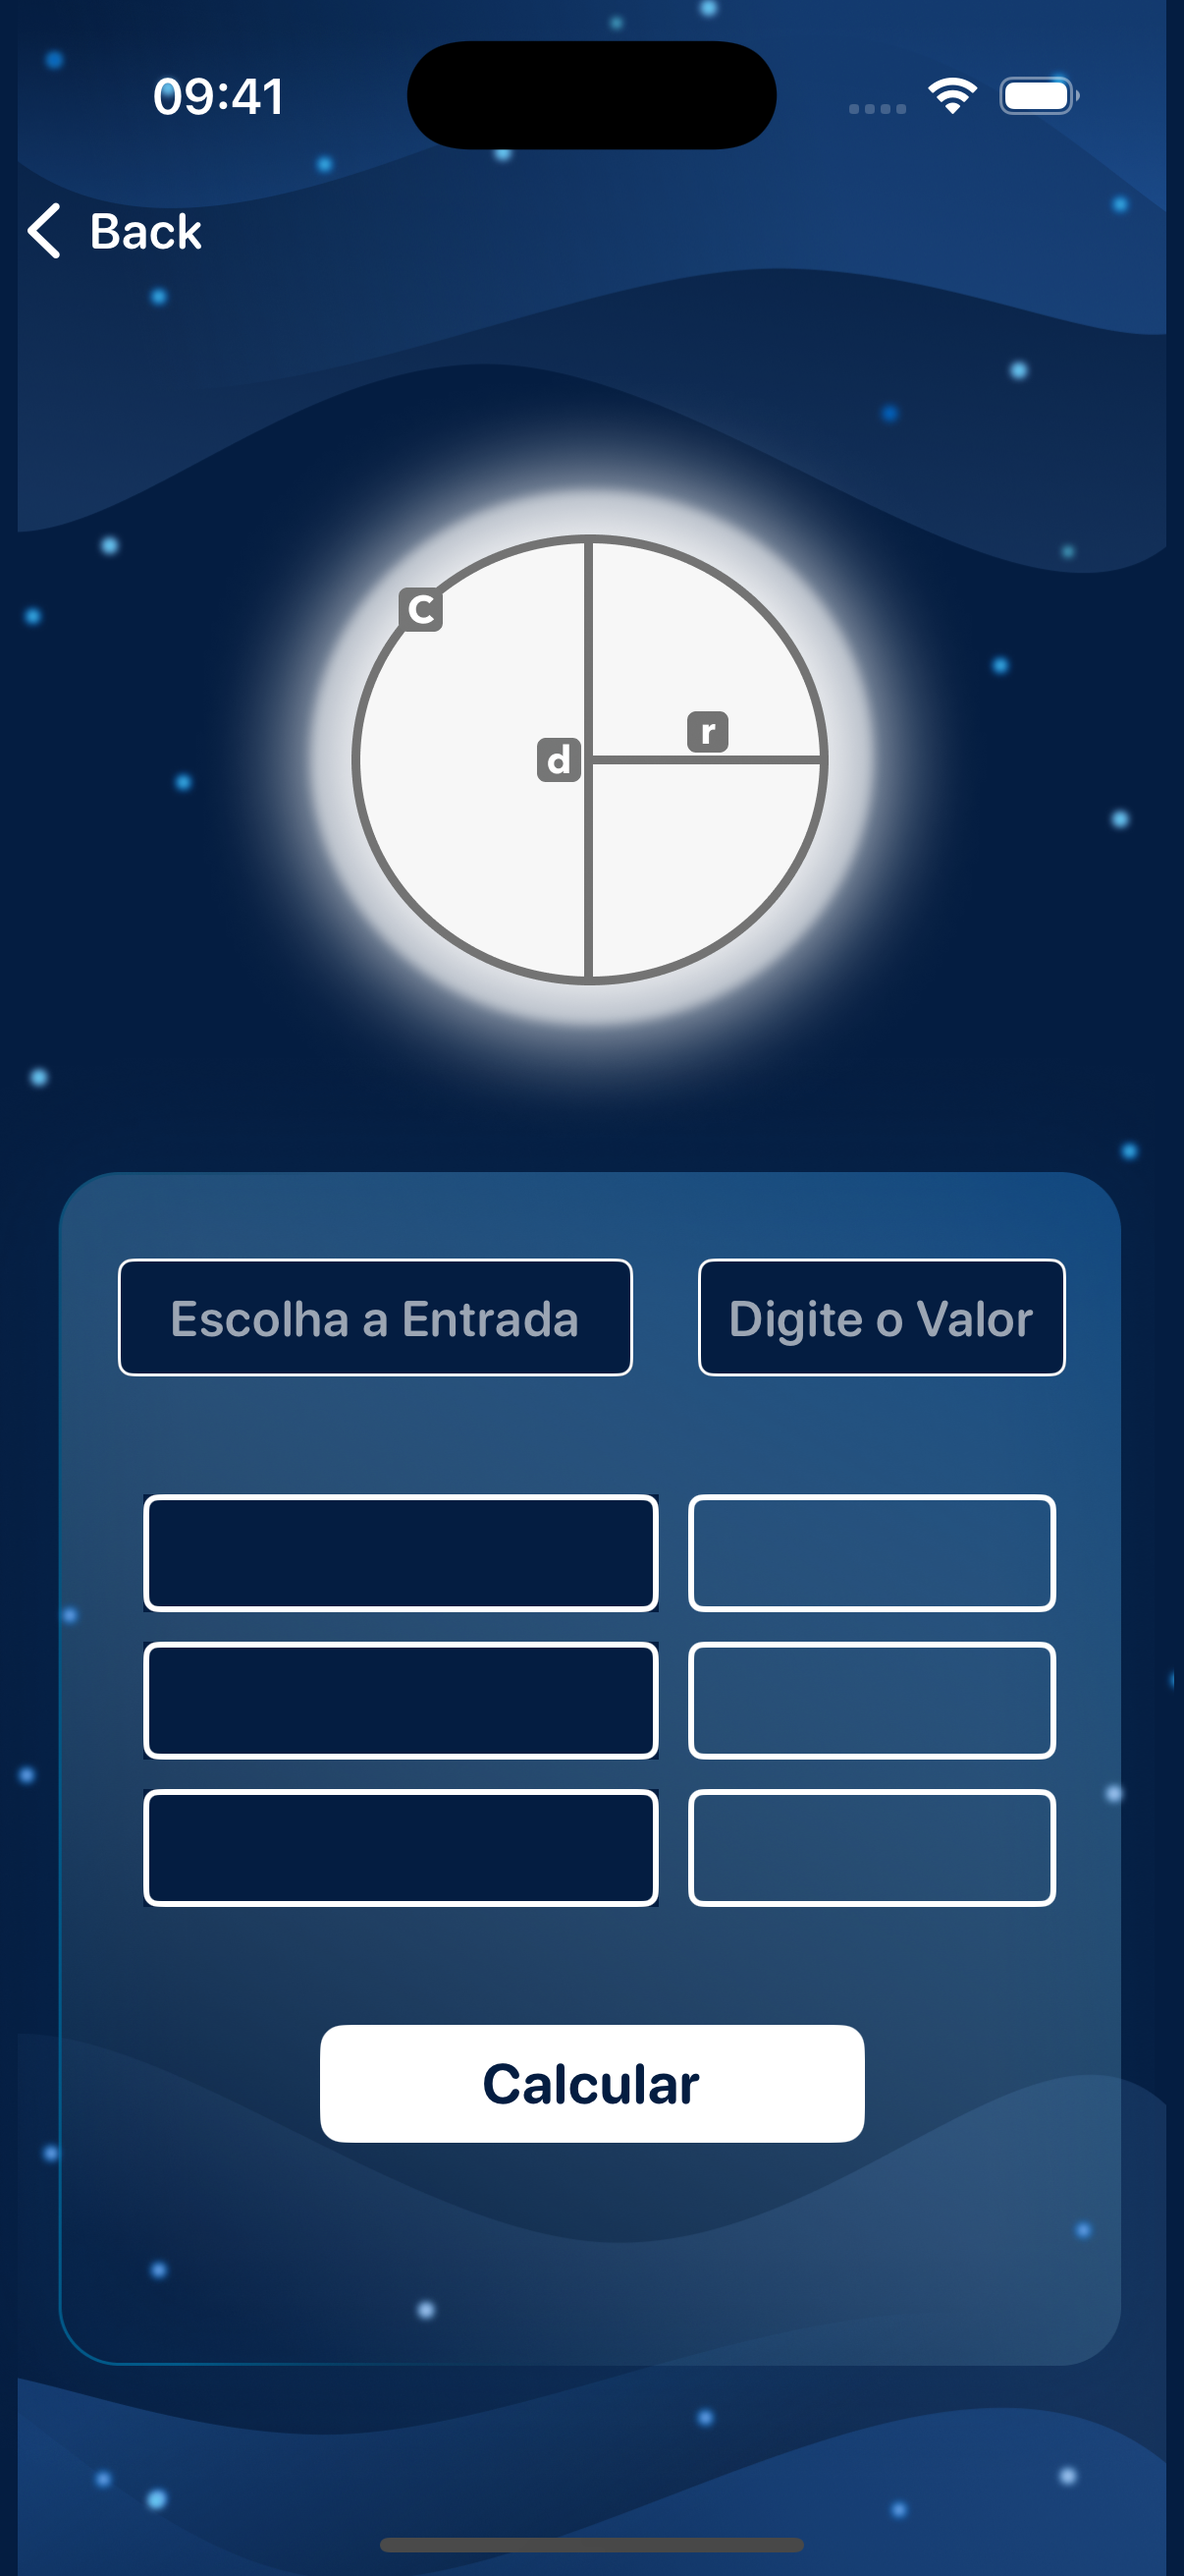
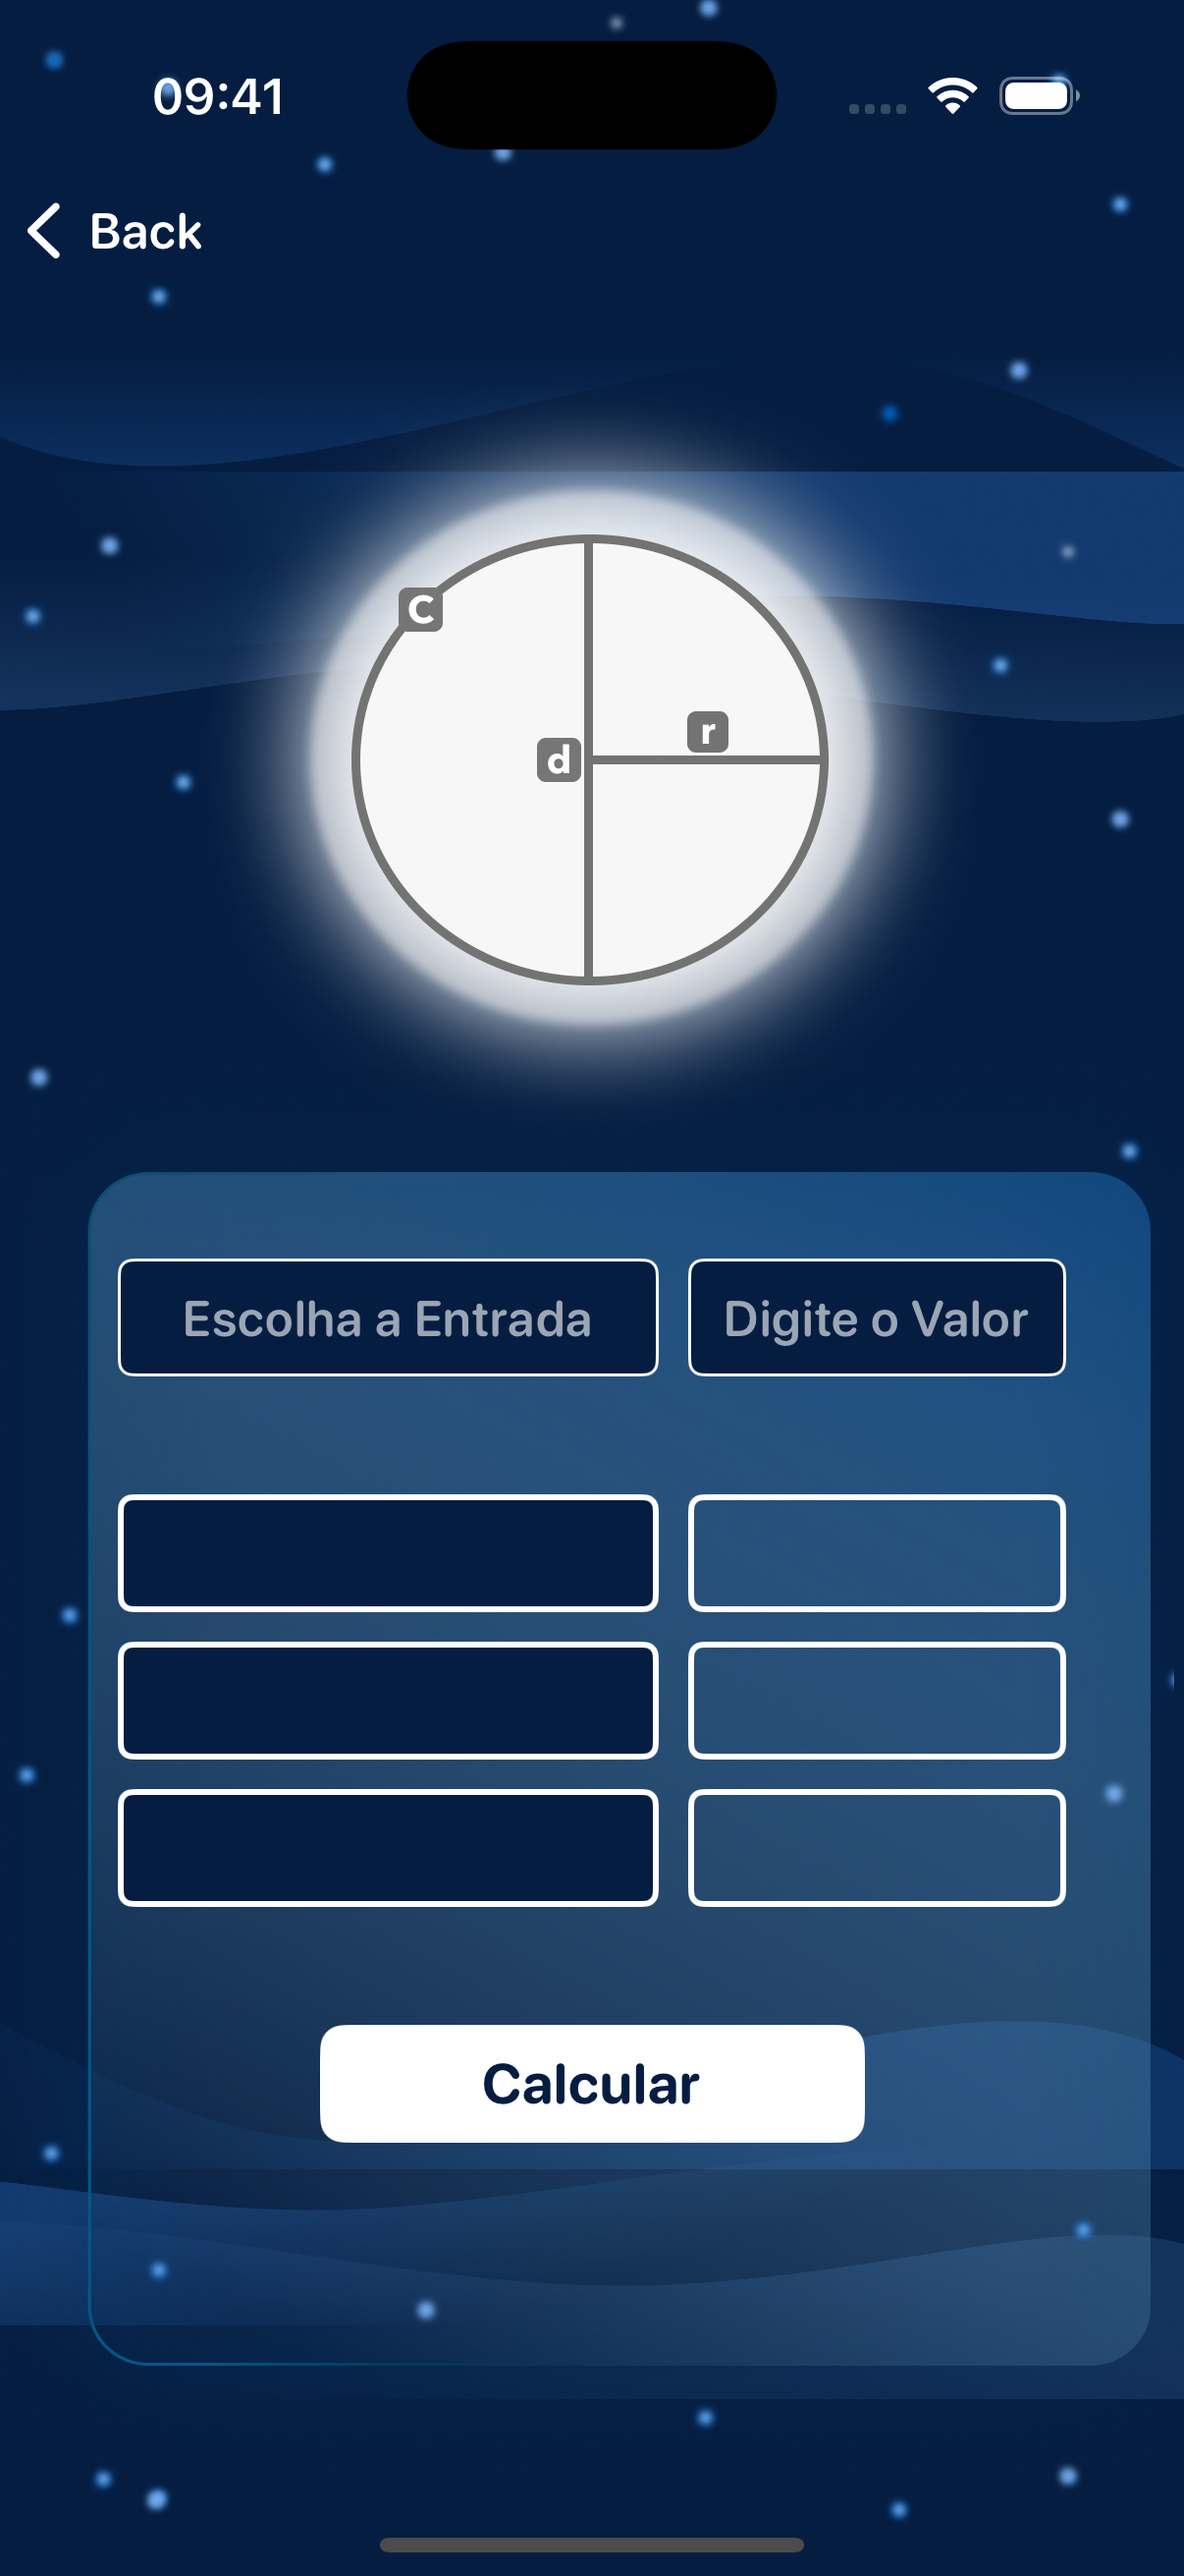
Corrige layout da calculadora e nuvens coladas nas laterais
- Alinha campos da calculadora com constraints responsivas
- Nuvens agora esticam ate as bordas da tela em todas as views
- Atualiza screenshots com layout corrigido

diff --git a/Luna/Sources/Circle/CircleView.swift b/Luna/Sources/Circle/CircleView.swift
@@ -67,10 +67,11 @@ class CircleView: UIView, UIPickerViewDelegate, UIPickerViewDataSource, UITextFi
         addSubview(textFieldNumb)
         
         NSLayoutConstraint.activate([
+            textFieldNumb.leadingAnchor.constraint(equalTo: textField.trailingAnchor, constant: 10),
             textFieldNumb.trailingAnchor.constraint(equalTo: trailingAnchor, constant: -40),
-            textFieldNumb.centerYAnchor.constraint(equalTo: centerYAnchor,  constant: 10),
-            textFieldNumb.widthAnchor.constraint(equalToConstant: 125),
-            textFieldNumb.heightAnchor.constraint(equalToConstant: 40)
+            textFieldNumb.centerYAnchor.constraint(equalTo: textField.centerYAnchor),
+            textFieldNumb.heightAnchor.constraint(equalToConstant: 40),
+            textFieldNumb.widthAnchor.constraint(equalTo: textField.widthAnchor, multiplier: 0.7)
         ])
     }
     
@@ -120,8 +121,7 @@ class CircleView: UIView, UIPickerViewDelegate, UIPickerViewDataSource, UITextFi
         
         NSLayoutConstraint.activate([
             textField.leadingAnchor.constraint(equalTo: leadingAnchor, constant: 40),
-            textField.centerYAnchor.constraint(equalTo: centerYAnchor,  constant: 10),
-            textField.widthAnchor.constraint(equalToConstant: 175),
+            textField.centerYAnchor.constraint(equalTo: centerYAnchor, constant: 10),
             textField.heightAnchor.constraint(equalToConstant: 40)
         ])
         
@@ -135,38 +135,35 @@ class CircleView: UIView, UIPickerViewDelegate, UIPickerViewDataSource, UITextFi
             label.layer.borderWidth = 2
             label.layer.borderColor = UIColor.white.cgColor
             label.layer.cornerRadius = 5
+            label.clipsToBounds = true
             label.translatesAutoresizingMaskIntoConstraints = false
             label.text = ""
             addSubview(label)
             unusedOptionsLabels.append(label)
-            
-            
-            NSLayoutConstraint.activate([
-                label.centerXAnchor.constraint(equalTo: centerXAnchor, constant: -65),
-                label.centerYAnchor.constraint(equalTo: centerYAnchor, constant: CGFloat(index * 50) + 90),
-                label.widthAnchor.constraint(equalToConstant: 175),
-                label.heightAnchor.constraint(equalToConstant: 40)
-            ])
-            
+
             let resultLabel = UILabel()
             resultLabel.textAlignment = .center
             resultLabel.font = .rounded(ofSize: 17, weight: .semibold)
             resultLabel.textColor = .white
-            
             resultLabel.layer.borderWidth = 2
             resultLabel.layer.borderColor = UIColor.white.cgColor
             resultLabel.layer.cornerRadius = 5
+            resultLabel.clipsToBounds = true
             resultLabel.translatesAutoresizingMaskIntoConstraints = false
             addSubview(resultLabel)
             resultLabels.append(resultLabel)
-            
+
             NSLayoutConstraint.activate([
-                resultLabel.centerYAnchor.constraint(equalTo: centerYAnchor, constant: CGFloat(index * 50) + 90),
-                resultLabel.widthAnchor.constraint(equalToConstant: 125),
+                label.leadingAnchor.constraint(equalTo: leadingAnchor, constant: 40),
+                label.centerYAnchor.constraint(equalTo: centerYAnchor, constant: CGFloat(index * 50) + 90),
+                label.heightAnchor.constraint(equalToConstant: 40),
+
+                resultLabel.leadingAnchor.constraint(equalTo: label.trailingAnchor, constant: 10),
+                resultLabel.trailingAnchor.constraint(equalTo: trailingAnchor, constant: -40),
+                resultLabel.centerYAnchor.constraint(equalTo: label.centerYAnchor),
                 resultLabel.heightAnchor.constraint(equalToConstant: 40),
-                resultLabel.leadingAnchor.constraint(equalTo: unusedOptionsLabels[index].trailingAnchor, constant: 10)
+                resultLabel.widthAnchor.constraint(equalTo: label.widthAnchor, multiplier: 0.7)
             ])
-            
         }
         
         let picker = UIPickerView()
@@ -364,19 +361,22 @@ class CircleView: UIView, UIPickerViewDelegate, UIPickerViewDataSource, UITextFi
         
         NSLayoutConstraint.activate([
             
-            cloudTop.centerXAnchor.constraint(equalTo: centerXAnchor),
+            cloudTop.leadingAnchor.constraint(equalTo: leadingAnchor),
+            cloudTop.trailingAnchor.constraint(equalTo: trailingAnchor),
             cloudTop.topAnchor.constraint(equalTo: topAnchor, constant: 115),
-            
-            cloudBottom.centerXAnchor.constraint(equalTo: centerXAnchor),
-            cloudBottom.bottomAnchor.constraint(equalTo: bottomAnchor, constant: -100),
+            cloudTop.heightAnchor.constraint(equalToConstant: 150),
+
+            cloudBottom.leadingAnchor.constraint(equalTo: leadingAnchor),
+            cloudBottom.trailingAnchor.constraint(equalTo: trailingAnchor),
+            cloudBottom.bottomAnchor.constraint(equalTo: bottomAnchor, constant: -50),
+            cloudBottom.heightAnchor.constraint(equalToConstant: 150),
             
             moom.centerXAnchor.constraint(equalTo: centerXAnchor),
             moom.centerYAnchor.constraint(equalTo: centerYAnchor, constant: -180),
             
             imageView.topAnchor.constraint(equalTo: moom.bottomAnchor, constant: -30),
-            imageView.leadingAnchor.constraint(equalTo: leadingAnchor, constant: -10),
-            imageView.trailingAnchor.constraint(equalTo: trailingAnchor, constant: 0),
-            imageView.widthAnchor.constraint(equalTo: widthAnchor),
+            imageView.leadingAnchor.constraint(equalTo: leadingAnchor),
+            imageView.trailingAnchor.constraint(equalTo: trailingAnchor),
             
             star.topAnchor.constraint(equalTo: topAnchor),
             star.leadingAnchor.constraint(equalTo: leadingAnchor),

diff --git a/Luna/Sources/CloudView/CloudBottomView.swift b/Luna/Sources/CloudView/CloudBottomView.swift
@@ -66,13 +66,26 @@ class CloudBottomView: UIView {
         cloudBottomOne.translatesAutoresizingMaskIntoConstraints = false
         cloudBottomTow.translatesAutoresizingMaskIntoConstraints = false
         cloudBottomThree.translatesAutoresizingMaskIntoConstraints = false
+
+        cloudBottomOne.contentMode = .scaleToFill
+        cloudBottomTow.contentMode = .scaleToFill
+        cloudBottomThree.contentMode = .scaleToFill
+
         NSLayoutConstraint.activate([
-            cloudBottomOne.centerXAnchor.constraint(equalTo: centerXAnchor),
-            cloudBottomOne.centerYAnchor.constraint(equalTo: centerYAnchor, constant: 25),
-            cloudBottomTow.centerXAnchor.constraint(equalTo: centerXAnchor),
-            cloudBottomTow.centerYAnchor.constraint(equalTo: centerYAnchor, constant: 65),
-            cloudBottomThree.centerXAnchor.constraint(equalTo: centerXAnchor),
-            cloudBottomThree.centerYAnchor.constraint(equalTo: centerYAnchor, constant: 80),
+            cloudBottomOne.leadingAnchor.constraint(equalTo: leadingAnchor),
+            cloudBottomOne.trailingAnchor.constraint(equalTo: trailingAnchor),
+            cloudBottomOne.bottomAnchor.constraint(equalTo: bottomAnchor),
+            cloudBottomOne.heightAnchor.constraint(equalToConstant: 60),
+
+            cloudBottomTow.leadingAnchor.constraint(equalTo: leadingAnchor),
+            cloudBottomTow.trailingAnchor.constraint(equalTo: trailingAnchor),
+            cloudBottomTow.bottomAnchor.constraint(equalTo: cloudBottomOne.topAnchor, constant: 20),
+            cloudBottomTow.heightAnchor.constraint(equalToConstant: 60),
+
+            cloudBottomThree.leadingAnchor.constraint(equalTo: leadingAnchor),
+            cloudBottomThree.trailingAnchor.constraint(equalTo: trailingAnchor),
+            cloudBottomThree.bottomAnchor.constraint(equalTo: cloudBottomTow.topAnchor, constant: 20),
+            cloudBottomThree.heightAnchor.constraint(equalToConstant: 60),
         ])
     }
     

diff --git a/Luna/Sources/CloudView/CloudTopView.swift b/Luna/Sources/CloudView/CloudTopView.swift
@@ -69,14 +69,26 @@ class CloudTopView: UIView {
         cloudTopOne.translatesAutoresizingMaskIntoConstraints = false
         cloudTopTow.translatesAutoresizingMaskIntoConstraints = false
         cloudTopThree.translatesAutoresizingMaskIntoConstraints = false
-       
+
+        cloudTopOne.contentMode = .scaleToFill
+        cloudTopTow.contentMode = .scaleToFill
+        cloudTopThree.contentMode = .scaleToFill
+
         NSLayoutConstraint.activate([
-            cloudTopOne.centerXAnchor.constraint(equalTo: centerXAnchor),
-            cloudTopOne.centerYAnchor.constraint(equalTo: centerYAnchor, constant: -15),
-            cloudTopTow.centerXAnchor.constraint(equalTo: centerXAnchor),
-            cloudTopTow.centerYAnchor.constraint(equalTo: centerYAnchor, constant: -57),
-            cloudTopThree.centerXAnchor.constraint(equalTo: centerXAnchor),
-            cloudTopThree.centerYAnchor.constraint(equalTo: centerYAnchor, constant: -70),
+            cloudTopThree.leadingAnchor.constraint(equalTo: leadingAnchor),
+            cloudTopThree.trailingAnchor.constraint(equalTo: trailingAnchor),
+            cloudTopThree.topAnchor.constraint(equalTo: topAnchor),
+            cloudTopThree.heightAnchor.constraint(equalToConstant: 60),
+
+            cloudTopTow.leadingAnchor.constraint(equalTo: leadingAnchor),
+            cloudTopTow.trailingAnchor.constraint(equalTo: trailingAnchor),
+            cloudTopTow.topAnchor.constraint(equalTo: cloudTopThree.bottomAnchor, constant: -20),
+            cloudTopTow.heightAnchor.constraint(equalToConstant: 60),
+
+            cloudTopOne.leadingAnchor.constraint(equalTo: leadingAnchor),
+            cloudTopOne.trailingAnchor.constraint(equalTo: trailingAnchor),
+            cloudTopOne.topAnchor.constraint(equalTo: cloudTopTow.bottomAnchor, constant: -20),
+            cloudTopOne.heightAnchor.constraint(equalToConstant: 60),
         ])
     }
     

diff --git a/Luna/Sources/Intro/View/IntroView.swift b/Luna/Sources/Intro/View/IntroView.swift
@@ -113,11 +113,15 @@ class IntroView: UIView {
         cloudBottom.translatesAutoresizingMaskIntoConstraints = false
         NSLayoutConstraint.activate([
 //            lunaView.topAnchor.constraint(equalTo: imageView.topAnchor, constant: 66),
-            cloudBottom.centerXAnchor.constraint(equalTo: centerXAnchor),
-            cloudBottom.bottomAnchor.constraint(equalTo: bottomAnchor, constant: -100),
-            
-            cloudTop.centerXAnchor.constraint(equalTo: centerXAnchor),
+            cloudBottom.leadingAnchor.constraint(equalTo: leadingAnchor),
+            cloudBottom.trailingAnchor.constraint(equalTo: trailingAnchor),
+            cloudBottom.bottomAnchor.constraint(equalTo: bottomAnchor, constant: -50),
+            cloudBottom.heightAnchor.constraint(equalToConstant: 150),
+
+            cloudTop.leadingAnchor.constraint(equalTo: leadingAnchor),
+            cloudTop.trailingAnchor.constraint(equalTo: trailingAnchor),
             cloudTop.topAnchor.constraint(equalTo: topAnchor, constant: 115),
+            cloudTop.heightAnchor.constraint(equalToConstant: 150),
             
             lunaView.centerXAnchor.constraint(equalTo: centerXAnchor),
             lunaView.topAnchor.constraint(equalTo: cloudTop.bottomAnchor, constant: 300),
